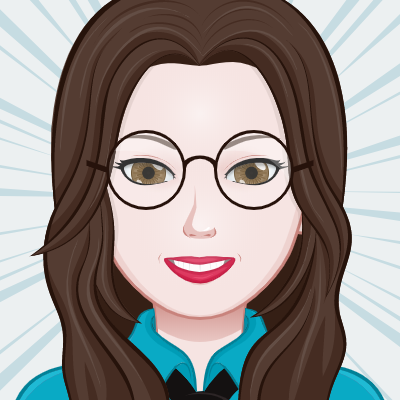
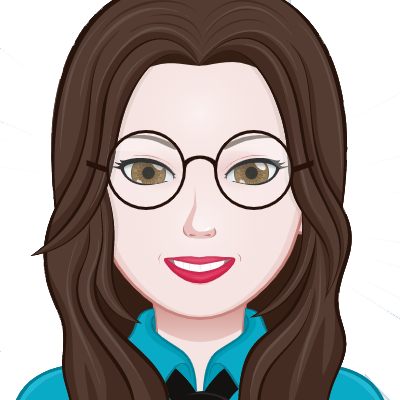
the project style changing and input box

diff --git a/home.html b/home.html
@@ -101,7 +101,7 @@
             <img src="img/contact.gif" alt="">
             <p>
               CELINE WANG<br>
-              wangyh1212@gmail.com <br>
+              <a href="mailto:wangyh1212@gmail.com">wangyh1212@gmail.com</a> <br>
               123-4567-890 <br>
               8888 University Dr, Burnaby, BC V5A 1S6 <br>
             </p>

diff --git a/css/style.css b/css/style.css
@@ -21,6 +21,7 @@ body{
 
 #home{
   background-color: rgb(5, 84, 150);
+  background-image: url("../img/back-1.png");
   margin: 8vw 4vw;
 }
 
@@ -410,7 +411,7 @@ footer{
 }
 
 .footer_body input {
-  height: 2.1vw;
+  /* height: 2.1vw; */
 }
 
 
